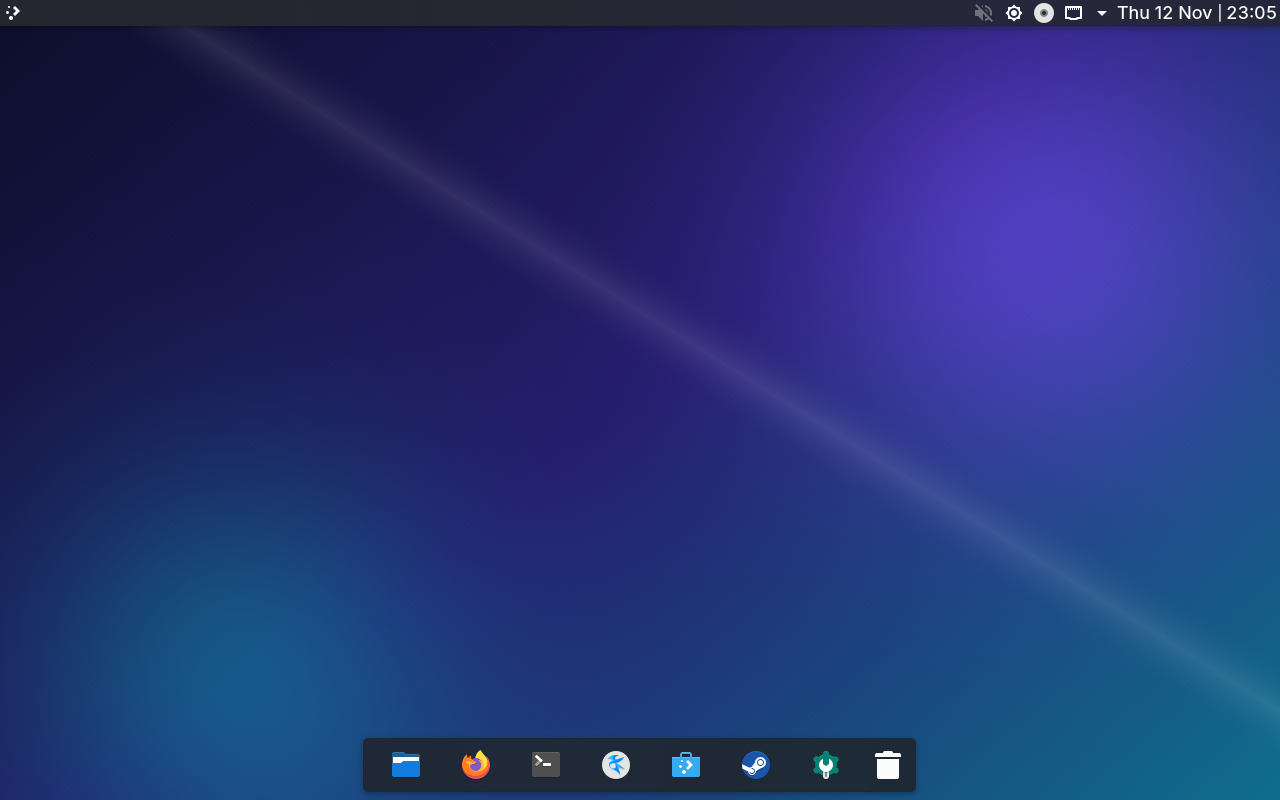
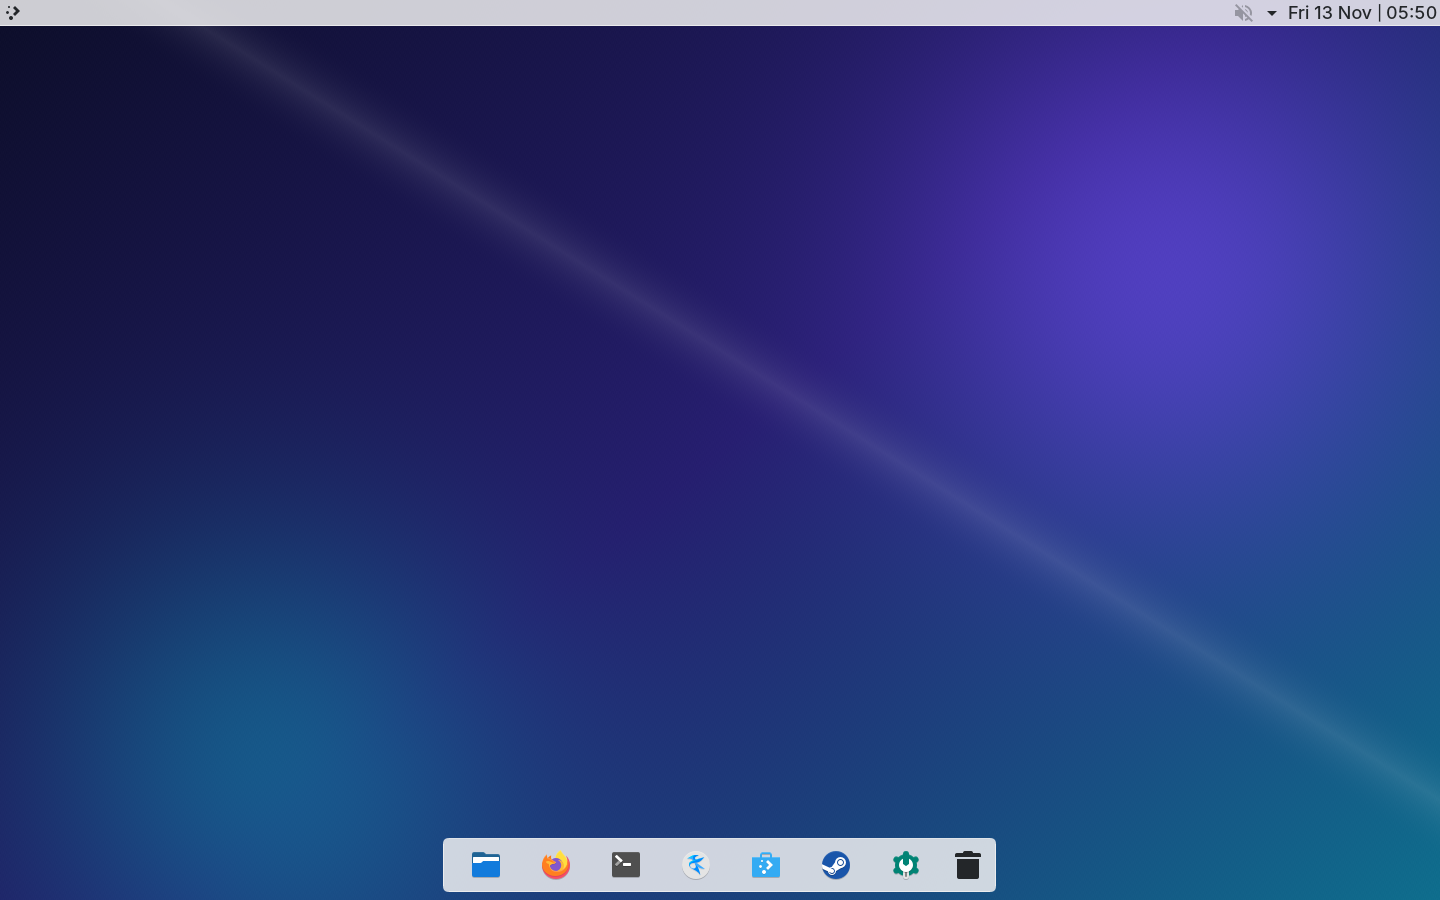
desktop: screenshots (layouts, tools, settings), kwick-desktop fix, honest verification status

Changed region(s): [[0.2812, 0.9062, 0.7188, 1.0], [0.0, 0.0, 1.0, 0.0312]]

diff --git a/README.md b/README.md
@@ -18,9 +18,19 @@ root@kwick:/# systemctl enable --now nginx      # works in containers too
 
 ## Screenshots
 
-| Headless (serial console, real boot) | Desktop (KDE Plasma 6 live ISO, UEFI boot under QEMU) |
+| Headless (real boot, serial console) | Desktop (KDE Plasma 6) |
 |---|---|
 | ![headless](docs/img/headless.png) | ![desktop](docs/img/desktop.png) |
+
+Desktop layouts from `kwick-layout` (real Plasma session, software-rendered; system settings and the KwickOS tools are shown too):
+
+| macOS style | Windows style | Linux style |
+|---|---|---|
+| ![macos](docs/img/layout-macos.png) | ![windows](docs/img/layout-windows.png) | ![linux](docs/img/layout-linux.png) |
+
+| Terminal tools (`kwick-gpu`, `kwick-layout`, `kwick-desktop list`) | System Settings |
+|---|---|
+| ![tools](docs/img/terminal-tools.png) | ![settings](docs/img/system-settings.png) |
 
 ## Results (measured, see [docs/BENCHMARKS.md](docs/BENCHMARKS.md))
 
@@ -146,8 +156,9 @@ matching Mesa/Vulkan drivers and firmware. `kwick-gpu` alone shows what it found
 amdgpu/i915/xe drivers with Mesa; NVIDIA uses nouveau with the NVK Vulkan driver (the proprietary driver is not packaged yet);
 Apple Silicon needs Asahi's kernel, which the stock KwickOS kernel does not include yet; DGX Spark (GB10) is untested.
 
-Only the default KDE session and the layout/effects tools are exercised by CI (amd64 boot test); GNOME, the tiling session and the effects
-presets are written but untested.
+Verified: the KDE session, `kwick-layout` (all three styles, screenshots above), `kwick-desktop list`, `kwick-gpu`. Not verified: the animated
+effects (KWin needs a GPU/GL compositor; the screenshot environment is software-only), GNOME and tiling sessions, the Steam first-launch install,
+and fonts after `kwick-fonts`.
 ## Releases
 
 Every push to `main` that changes the product, and every kernel bump found by `kernel-watch`
